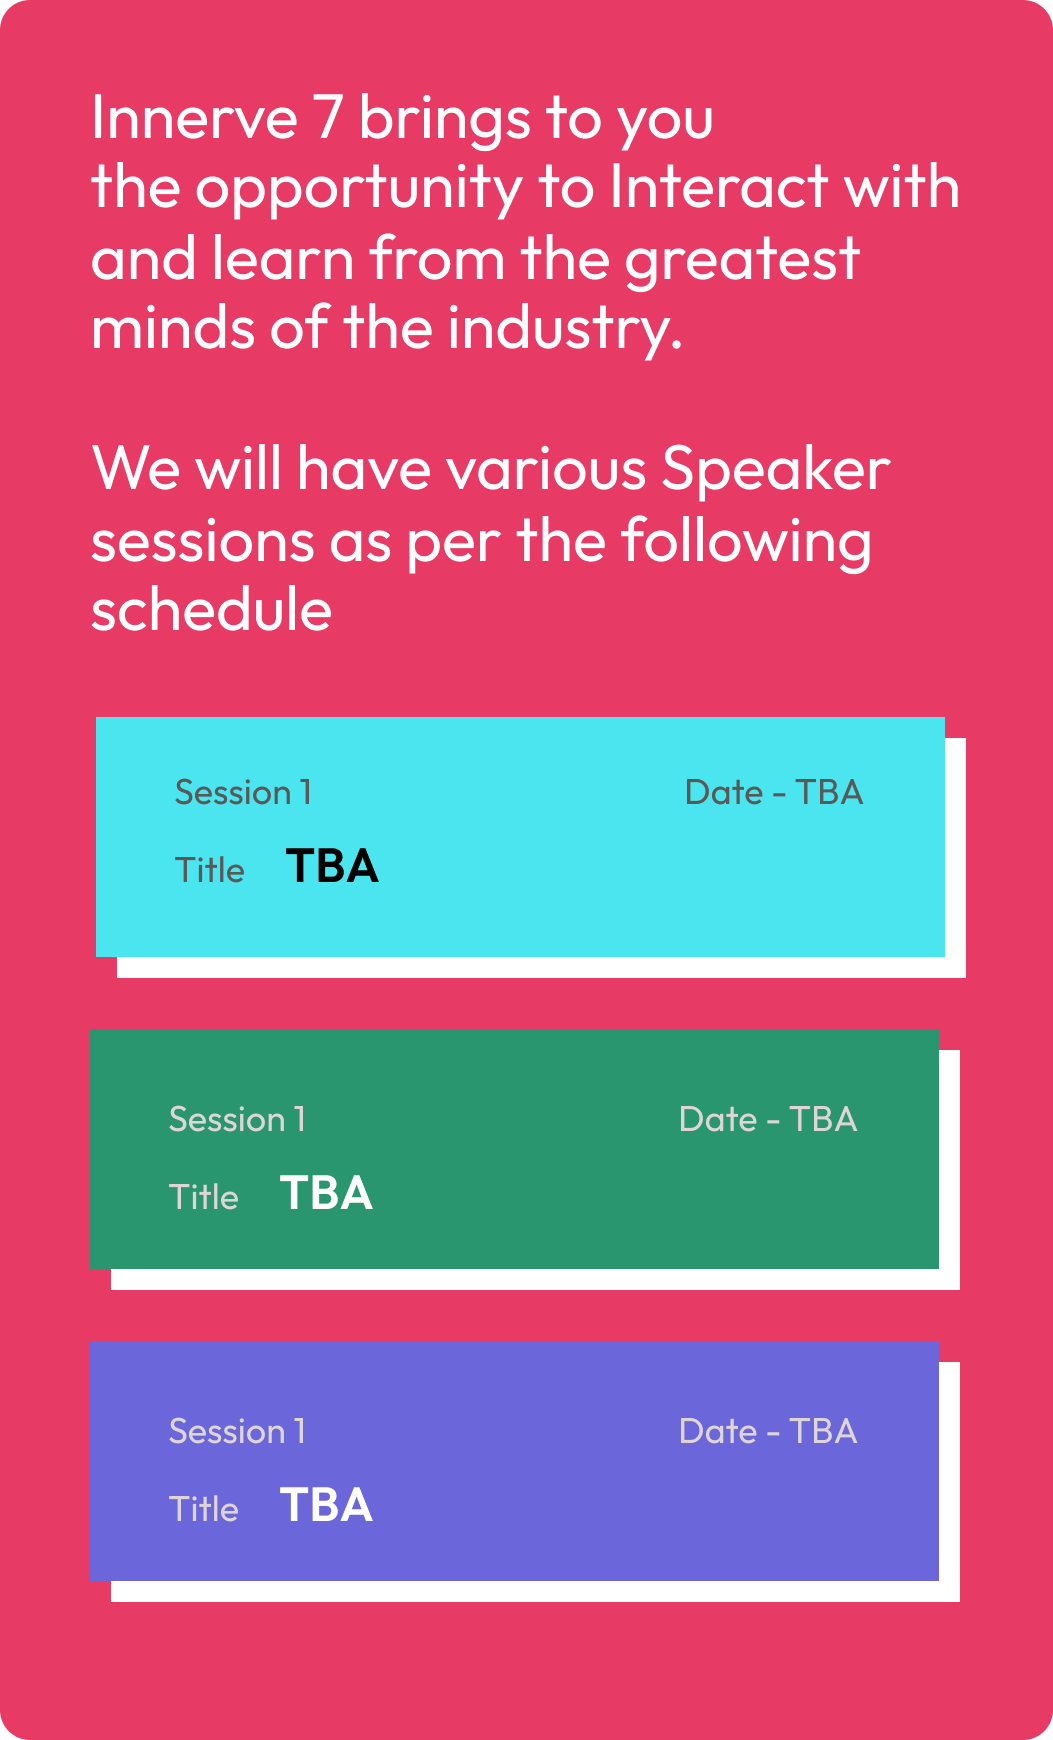
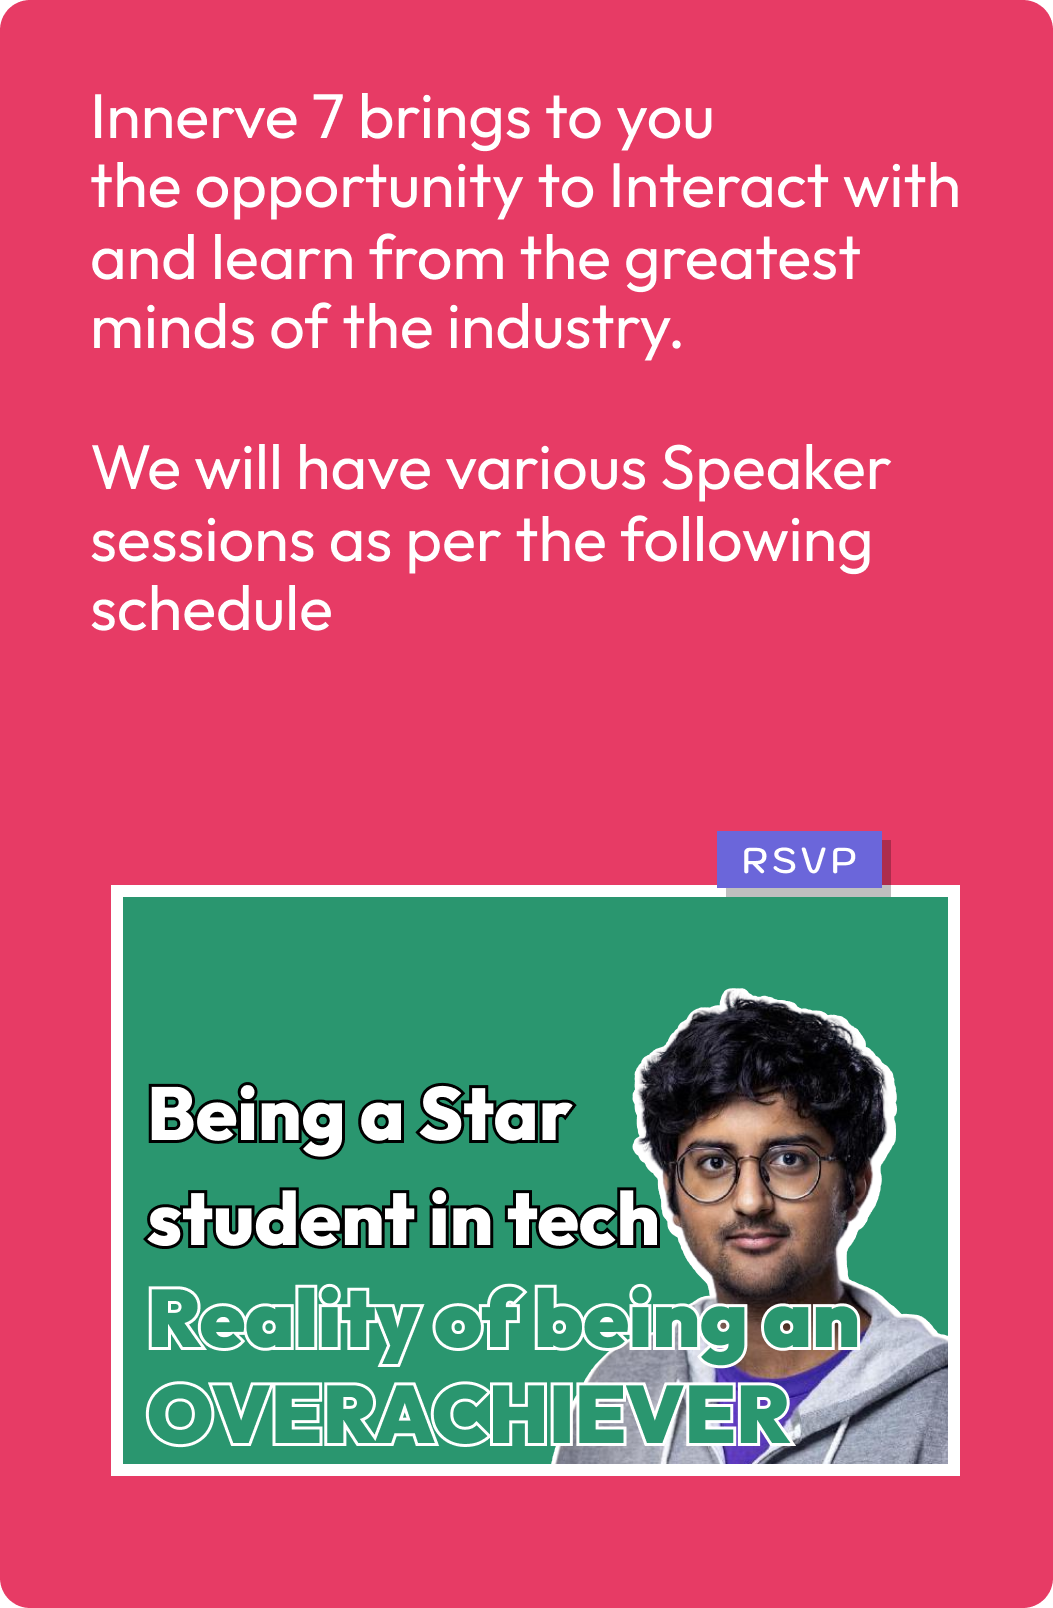
Kunal Added

diff --git a/index.html b/index.html
@@ -630,16 +630,29 @@
             <div class="timeline-box d-flex flex-column justify-content-between align-items-center">
                 <div class="timeline-card-img my-5" data-aos="fade-up" data-aos-delay="100" data-aos-duration="1000">
                     <img src="images/timeline-img-1.png" alt="first step to convert idea to product - text illustration" class="img-fluid">
-                    <div class="timeliine-register-button">
-                        <a href="https://innerve-seven.devfolio.co/">
+                    <div class="timeline-register-button">
+                        <a target="_blank" href="https://innerve-seven.devfolio.co/">
                             <img class="timeline-img-button" src="images/timeline-img-button-1.png" alt="Register for innerve 7">
+                        </a>
+                    </div>
+                </div>
+                <div class="timeline-card-img my-5" data-aos="fade-up" data-aos-delay="100" data-aos-duration="1000">
+                    <img src="images/timeline-img-2.png" alt="first step to convert idea to product - text illustration" class="img-fluid">
+                    <div class="timeline-kunal-button">
+                        <a target="_blank" href="https://forms.gle/wntv2oH9BtP2L68Y6">
+                            <img class="timeline-img-button" src="images/timeline-img-button-3.png" alt="Register for innerve 7">
+                        </a>
+                    </div>
+                    <div class="timeline-rsvp-button">
+                        <a target="_blank" href="https://forms.gle/wntv2oH9BtP2L68Y6">
+                            <img class="timeline-img-button" src="images/timeline-img-button-4.png" alt="Register for innerve 7">
                         </a>
                     </div>
                 </div>
                 <div class="timeline-card-img my-5" data-aos="fade-up" data-aos-delay="100" data-aos-duration="1000">
                     <img src="images/timeline-img-4.png" alt="join our discord server to get regular updates - text illustration" class="img-fluid">
                     <div class="timeline-discord-button">
-                        <a href="https://discord.com/invite/DKwTKDJ3Z7">
+                        <a target="_blank" href="https://discord.com/invite/DKwTKDJ3Z7">
                             <img class="timeline-img-button" src="images/timeline-img-button-2.png" alt="Register for innerve 7">
                         </a>
                     </div>

diff --git a/style.css b/style.css
@@ -1287,7 +1287,7 @@ a{
     position: relative;
   }
 
-  .timeliine-register-button{
+  .timeline-register-button{
     width: 42%;
     position: absolute;
     top: 42%;
@@ -1299,17 +1299,44 @@ a{
     left: 8.6%;
     top: 72%;
 }
+.timeline-kunal-button{
+    width: 80.85714285714%;
+    position: absolute;
+    left: 8.6%;
+    top: 42.537313%;
+}
+.timeline-rsvp-button{
+    position: absolute;
+    width: 15.85714285714%;
+    left: 68.09116809116809%;
+    top: 51.67910447761194%;
+}
 
-  .timeline-img-button{
-    width: 100%;
-    box-shadow: 7px 7px 0px rgba(0, 0, 0, 0.25);
-    transition: 0.2s ease-out;
-  }
-  .timeline-img-button:hover{
+.timeline-img-button{
+width: 100%;
+box-shadow: 7px 7px 0px rgba(0, 0, 0, 0.25);
+transition: 0.2s ease-out;
+}
+.timeline-img-button:hover{
+box-shadow: 3px 3px 0px rgba(0, 0, 0, 0.25);
+transform: translate(4px, 4px);
+}
+
+.timeline-kunal-button .timeline-img-button{
+    box-shadow: 7px 7px 0px rgba(255, 255, 255);
+}
+.timeline-kunal-button .timeline-img-button:hover{
+    box-shadow: 3px 3px 0px rgba(255, 255, 255);  
+}
+.timeline-rsvp-button .timeline-img-button{
+    /* box-shadow: 3px 3px 0px rgba(255, 255, 255); */
     box-shadow: 3px 3px 0px rgba(0, 0, 0, 0.25);
-    transform: translate(4px, 4px);
-    background: linear-gradient(171.32deg, #E73B65 49.04%, #D6385E 49.05%);
-  }
+    transition: 0.2s ease-out;
+}
+.timeline-rsvp-button .timeline-img-button:hover{
+    box-shadow: 3px 3px 0px rgba(255, 255, 255);
+    transform: none;
+}
   
   /* setting padding based on even or odd */
   .timeline_card:nth-child(odd) {

diff --git a/js/app.js b/js/app.js
@@ -1,3 +1,12 @@
+const images = document.querySelectorAll("img");
+images.forEach(noDrag)
+
+function noDrag(item, index, arr){
+  arr[index].setAttribute("draggable", false);
+  console.log("here");
+}
+
+
 
 let nav = document.querySelector('.neww');
 let hidden = document.querySelector('.hidden_nav');
